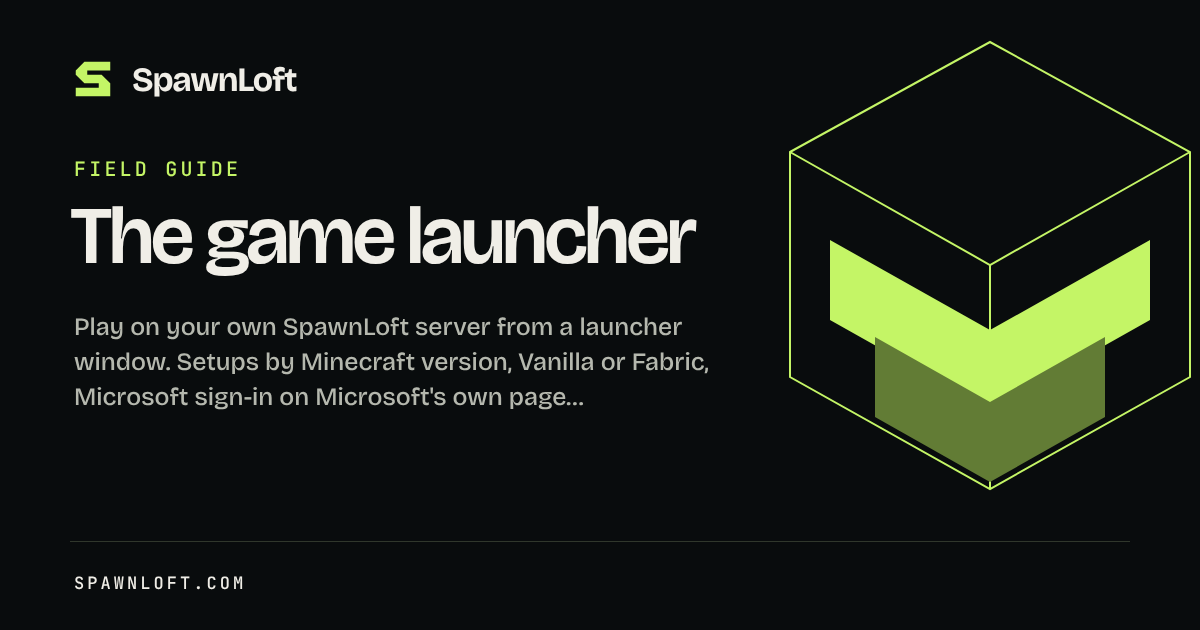
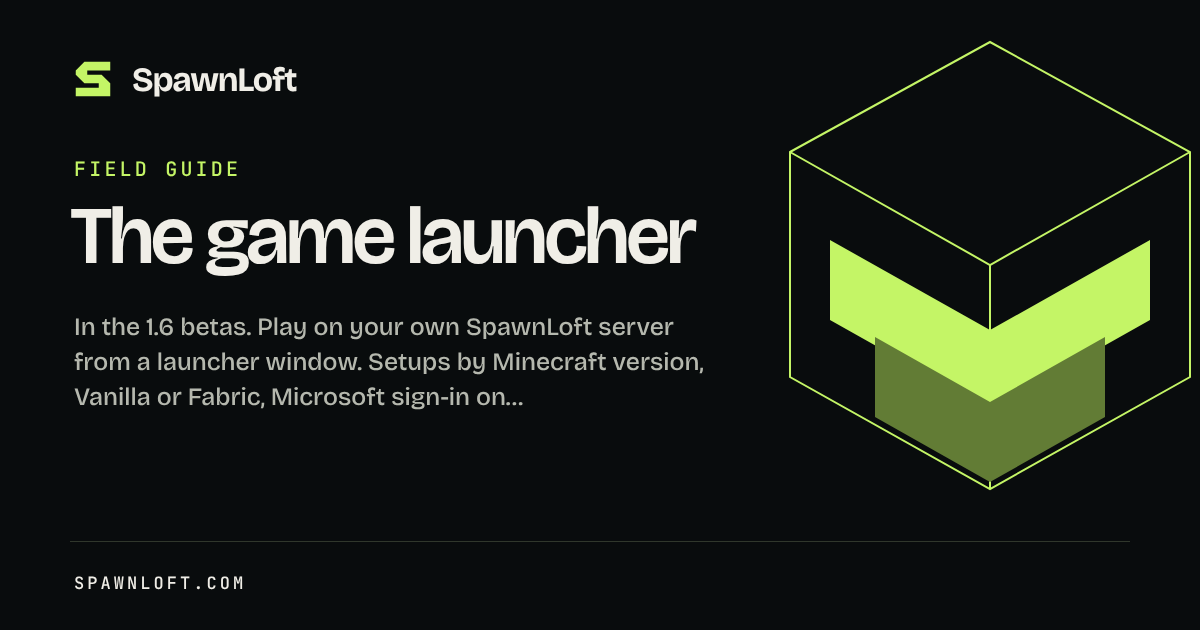
Address review: focus handling, launcher caveats, heading levels
- DemoPlayer moves focus to the video when the poster is activated, and the
  play pill is drawn in ink so the primary button stays the only lime fill
- Product and roadmap jump links move focus to the section they scroll to
- Launcher section and docs page say which platforms the client runs on,
  that Java comes from Mojang for the game client only, and that sign-in in
  the packaged desktop app is still being verified (with the CLI fallback)
- Release notes render their headings one level down, under each release's
  own heading; a hash change after load opens the linked release
- Blog list titles use the h2 role directly; product and launcher cards redrawn

Changed region(s): [[0.0617, 0.4825, 0.5858, 0.6635]]

diff --git a/.vitepress/theme/pages/ProductPage.vue b/.vitepress/theme/pages/ProductPage.vue
@@ -57,7 +57,8 @@ const integrations = [
 ]
 const launcher = [
   'Setups by Minecraft version, Vanilla or Fabric, with the memory you choose',
-  'Any version in Mojang’s list, with the Java it needs fetched when none on the machine fits',
+  'Any version in Mojang’s list; the game client gets Mojang’s own Java when none on the machine fits',
+  'Windows x64, Apple Silicon and Linux x64; Linux arm64 cannot run the client',
   'Microsoft sign-in on Microsoft’s own page, or an offline name for a test server',
   'Press Play on a stopped server and it is started first, then joined',
 ]
@@ -66,6 +67,17 @@ const platforms = [
   { name: 'macOS', detail: '13 or later · Apple Silicon', points: ['Signed, notarized and stapled', 'Managed MySQL needs macOS 15 or later', 'Schedules via launchd', 'Intel Macs stay on 1.4'] },
   { name: 'Linux', detail: '.deb and .rpm · x64 or arm64', points: ['Hash-verified packages', 'Managed MySQL on x64 only', 'A command-line-only build for servers'] },
 ]
+
+// A jump link scrolls to its section and moves focus there, so a keyboard user lands where the
+// page went instead of tabbing on from the top.
+function jumpTo(href: string) {
+  const target = document.getElementById(href.slice(1))
+  if (!target) return
+  history.replaceState(null, '', href)
+  target.setAttribute('tabindex', '-1')
+  target.scrollIntoView({ block: 'start' })
+  target.focus({ preventScroll: true })
+}
 </script>
 
 <template>
@@ -84,7 +96,7 @@ const platforms = [
         </div>
         <nav class="jump" aria-label="On this page">
           <Eyebrow>On this page</Eyebrow>
-          <a v-for="[text, href] in jumps" :key="href" :href="href"><span>{{ text }}</span><BrandIcon name="arrow" :size="16" /></a>
+          <a v-for="[text, href] in jumps" :key="href" :href="href" @click.prevent="jumpTo(href)"><span>{{ text }}</span><BrandIcon name="arrow" :size="16" /></a>
         </nav>
       </div>
     </section>
@@ -146,7 +158,7 @@ const platforms = [
           <h2 class="h2">Press Play on your own server.</h2>
           <p class="body">A window for the real Minecraft client, already pointed at one of your SpawnLoft servers. It is a developer's tool that goes with the app: make a setup, press Play, test the plugin you are writing as a player. Nothing is drawn or patched by SpawnLoft; it downloads the client Mojang ships and runs it.</p>
           <ul class="ticks"><li v-for="point in launcher" :key="point">{{ point }}</li></ul>
-          <p class="body">It is not a mods launcher, a news feed or a store, and it has no account system of its own. It ships in the 1.6 betas; 1.5 does not have it.</p>
+          <p class="body">It is not a mods launcher, a news feed or a store, and it has no account system of its own. It ships in the 1.6 betas; 1.5 does not have it, and the sign-in inside the packaged desktop app is still being verified.</p>
           <div class="links"><ArrowLink href="/guide/launcher">How the launcher works</ArrowLink><ArrowLink href="/guide/beta#automatic-updates-and-beta-builds">Get the beta builds</ArrowLink></div>
         </div>
         <div class="sketch-col" v-reveal>
@@ -201,6 +213,7 @@ const platforms = [
 .words { display: grid; gap: var(--s5); align-content: start; }
 .cta-row { display: flex; flex-wrap: wrap; gap: var(--s3) var(--s4); align-items: center; }
 .aside { max-width: 24em; font-size: var(--t-body); }
+section:focus { outline: 0; }
 .jump { display: grid; align-content: start; padding-top: var(--s2); }
 .jump .eyebrow { margin-bottom: var(--s3); }
 .jump a { display: flex; justify-content: space-between; align-items: center; gap: var(--s4); padding: var(--s3) 0; border-top: 1px solid var(--line); font: 500 var(--t-ui)/1.3 var(--display); color: var(--fg-2); }
@@ -233,8 +246,8 @@ const platforms = [
 .sk { display: grid; gap: var(--s6); padding: var(--s5); background: var(--bg); }
 .sk-top { display: flex; justify-content: space-between; align-items: center; }
 .sk-brand { color: var(--accent); display: inline-flex; }
-.sk-chip { display: inline-flex; align-items: center; gap: var(--s2); padding: 4px 10px 4px 6px; border: 1px solid var(--line-strong); border-radius: 999px; font: 500 var(--t-caption)/1.4 var(--mono); color: var(--fg-2); }
-.sk-chip i { width: 16px; height: 16px; border-radius: 3px; background: var(--bg-3); }
+.sk-chip { display: inline-flex; align-items: center; gap: var(--s2); padding: var(--s1) var(--s3) var(--s1) var(--s2); border: 1px solid var(--line-strong); border-radius: 999px; font: 500 var(--t-caption)/1.4 var(--mono); color: var(--fg-2); }
+.sk-chip i { width: 16px; height: 16px; border-radius: var(--r1); background: var(--bg-3); }
 .sk-main { display: grid; gap: var(--s4); justify-items: start; }
 .sk-play { display: inline-flex; border-radius: var(--r1); overflow: hidden; }
 .sk-play-big { display: inline-flex; align-items: center; gap: var(--s3); min-height: 52px; padding: 0 var(--s6) 0 var(--s5); background: var(--accent); color: var(--accent-fg); font: 600 var(--t-lede)/1 var(--display); }

diff --git a/.vitepress/theme/components/DemoPlayer.vue b/.vitepress/theme/components/DemoPlayer.vue
@@ -12,6 +12,7 @@ const chapters = demo.captions
 const started = ref(false), step = ref(0)
 const video = ref<HTMLVideoElement>()
 const length = `${Math.floor(demo.duration / 60)}:${String(Math.round(demo.duration % 60)).padStart(2, '0')}`
+const pad = (n: number) => String(n).padStart(2, '0')
 
 async function start(at = 0) {
   started.value = true
@@ -19,6 +20,8 @@ async function start(at = 0) {
   const el = video.value
   if (!el) return
   if (at) el.currentTime = at + 0.05
+  // The poster button is gone, so focus moves to the video rather than falling to <body>.
+  el.focus({ preventScroll: true })
   el.play().catch(() => {})
 }
 function seek(chapter: { n: number; start: number }) {
@@ -39,7 +42,7 @@ function tick() {
 <template>
   <div class="demo">
     <div class="stage">
-      <video v-if="started" ref="video" controls muted playsinline preload="auto" poster="/demo/poster.webp" :width="demo.w" :height="demo.h"
+      <video v-if="started" ref="video" tabindex="0" controls muted playsinline preload="auto" poster="/demo/poster.webp" :width="demo.w" :height="demo.h"
         aria-label="A recording of SpawnLoft: creating a server, starting it, installing the WorldEdit plugin and taking a backup."
         @timeupdate="tick" @ended="step = 0">
         <source src="/demo/demo.webm" type="video/webm">
@@ -53,7 +56,7 @@ function tick() {
     </div>
     <ol class="chapters" aria-label="Chapters">
       <li v-for="chapter in chapters" :key="chapter.n">
-        <button type="button" :aria-current="step === chapter.n ? 'step' : undefined" @click="seek(chapter)"><span class="n mono">0{{ chapter.n }}</span>{{ chapter.text }}</button>
+        <button type="button" :aria-current="step === chapter.n ? 'step' : undefined" @click="seek(chapter)"><span class="n mono">{{ pad(chapter.n) }}</span>{{ chapter.text }}</button>
       </li>
     </ol>
   </div>
@@ -66,9 +69,11 @@ function tick() {
 .poster { position: relative; display: block; width: 100%; padding: 0; border: 0; background: none; cursor: pointer; }
 .poster img { transition: opacity var(--d2) var(--ease); }
 .poster:hover img { opacity: .85; }
-.play { position: absolute; left: 50%; top: 50%; transform: translate(-50%, -50%); display: inline-flex; align-items: center; gap: var(--s3); padding: var(--s3) var(--s5) var(--s3) var(--s4); border-radius: 999px; background: var(--accent); color: var(--accent-fg); font: 600 var(--t-ui)/1 var(--text); white-space: nowrap; transition: background var(--d1) var(--ease); }
-.poster:hover .play { background: var(--accent-hover); }
-.play small { font-size: var(--t-caption); font-weight: 500; opacity: .75; }
+/* Not a lime fill: Button is the only one on a view. An ink pill with a lime icon, as the panel's own chips. */
+.play { position: absolute; left: 50%; top: 50%; transform: translate(-50%, -50%); display: inline-flex; align-items: center; gap: var(--s3); padding: var(--s3) var(--s5) var(--s3) var(--s4); border: 1px solid var(--line-strong); border-radius: 999px; background: var(--bg); color: var(--fg); font: 600 var(--t-ui)/1 var(--text); white-space: nowrap; transition: border-color var(--d1) var(--ease); }
+.play :deep(svg) { color: var(--accent); }
+.poster:hover .play { border-color: var(--fg); }
+.play small { font-size: var(--t-caption); font-weight: 500; color: var(--fg-3); }
 .poster:focus-visible { outline: 2px solid var(--accent-text); outline-offset: 4px; }
 .chapters { list-style: none; margin: 0; padding: 0; display: grid; grid-template-columns: repeat(4, minmax(0, 1fr)); gap: 0 var(--s5); }
 .chapters li { border-top: 1px solid var(--line); }

diff --git a/.vitepress/theme/pages/RoadmapPage.vue b/.vitepress/theme/pages/RoadmapPage.vue
@@ -32,6 +32,17 @@ const reach = [
   { title: 'Linux, in more shapes.', text: 'A .deb and an .rpm for x64 and arm64 ship today, and a command-line package for servers with no screen. An AppImage is still to come; it needs its own answers to libfuse2, Ubuntu’s AppArmor sandbox, and a path that changes every launch.', link: ['Platform support', '/guide/beta'] },
   { title: 'More languages.', text: 'Localisation is a future direction. Language support and timing have not been announced.' },
 ]
+
+// A jump link scrolls to its section and moves focus there, so a keyboard user lands where the
+// page went instead of tabbing on from the top.
+function jumpTo(href: string) {
+  const target = document.getElementById(href.slice(1))
+  if (!target) return
+  history.replaceState(null, '', href)
+  target.setAttribute('tabindex', '-1')
+  target.scrollIntoView({ block: 'start' })
+  target.focus({ preventScroll: true })
+}
 </script>
 
 <template>
@@ -41,7 +52,7 @@ const reach = [
         <SectionHead level="h1" eyebrow="Roadmap" title="A bigger world. The same purpose." lede="Better tools for the server on your own PC, built around the people who make it theirs. What has shipped, what is next, and what is deliberately not on the list.">
           <template #aside><ArrowLink :href="ROADMAP_URL" external>The living roadmap</ArrowLink></template>
         </SectionHead>
-        <nav class="jumps" aria-label="Roadmap sections"><a v-for="[text, href] in jumps" :key="href" :href="href">{{ text }}</a></nav>
+        <nav class="jumps" aria-label="Roadmap sections"><a v-for="[text, href] in jumps" :key="href" :href="href" @click.prevent="jumpTo(href)">{{ text }}</a></nav>
       </div>
     </section>
 
@@ -111,6 +122,7 @@ const reach = [
 
 <style scoped>
 .top { padding-top: var(--s8); padding-bottom: var(--s7); }
+section:focus { outline: 0; }
 .jumps { display: flex; flex-wrap: wrap; gap: var(--s2) var(--s6); margin-top: var(--s5); }
 .jumps a { font: 500 var(--t-ui)/1.3 var(--display); color: var(--fg-2); padding: var(--s2) 0; }
 .jumps a:hover { color: var(--accent-text); }

diff --git a/.vitepress/theme/pages/BlogPage.vue b/.vitepress/theme/pages/BlogPage.vue
@@ -19,7 +19,7 @@ import { formatDate } from '../posts'
           <article v-for="post in posts" :key="post.url" class="post">
             <p class="meta small mono"><time :datetime="post.date">{{ formatDate(post.date) }}</time><span>{{ post.minutes }} min read</span></p>
             <div class="post-words">
-              <h2 class="h3"><a :href="post.url">{{ post.title }}</a></h2>
+              <h2 class="h2"><a :href="post.url">{{ post.title }}</a></h2>
               <p class="body">{{ post.description }}</p>
               <ul v-if="post.tags.length" class="tags" aria-label="Topics"><li v-for="tag in post.tags" :key="tag"><Pill>{{ tag }}</Pill></li></ul>
             </div>
@@ -37,7 +37,6 @@ import { formatDate } from '../posts'
 .post { display: grid; grid-template-columns: 220px minmax(0, 1fr); gap: var(--s6); padding: var(--s6) 0; border-bottom: 1px solid var(--line); }
 .meta { display: grid; gap: var(--s1); padding-top: 6px; }
 .post-words { display: grid; gap: var(--s3); justify-items: start; min-width: 0; }
-.post-words .h3 { font-size: var(--t-h2); line-height: 1.1; letter-spacing: -.03em; }
 .post-words h2 a:hover { text-decoration: underline; text-underline-offset: 6px; text-decoration-color: var(--accent); }
 .tags { list-style: none; margin: var(--s1) 0 0; padding: 0; display: flex; flex-wrap: wrap; gap: var(--s2); }
 @media (max-width: 760px) { .post { grid-template-columns: minmax(0, 1fr); gap: var(--s3); } .meta { display: flex; gap: var(--s4); padding: 0; } }

diff --git a/.vitepress/theme/pages/ChangelogPage.vue b/.vitepress/theme/pages/ChangelogPage.vue
@@ -43,6 +43,11 @@ const safeUrl = (href: string) => {
 }
 // Release Markdown is external content. Keep its formatting without executing embedded HTML.
 const renderer = new Renderer()
+// Release notes start their headings at h2 on GitHub; here they sit under a release's own h2.
+renderer.heading = function ({ tokens, depth }) {
+  const level = Math.min(6, depth + 1)
+  return `<h${level}>${this.parser.parseInline(tokens)}</h${level}>\n`
+}
 renderer.html = ({ text }) => escape(text.replace(/<!--[\s\S]*?-->/g, ''))
 renderer.link = function ({ href, tokens }) {
   const label = this.parser.parseInline(tokens)
@@ -100,8 +105,9 @@ async function showMore() {
   await nextTick()
   if (firstNew) document.getElementById(firstNew)?.querySelector('summary')?.focus({ preventScroll: true })
 }
-onMounted(load)
-onBeforeUnmount(() => request?.abort())
+const onHash = () => { if (state.value === 'ok') void openLinked() }
+onMounted(() => { window.addEventListener('hashchange', onHash); void load() })
+onBeforeUnmount(() => { window.removeEventListener('hashchange', onHash); request?.abort() })
 </script>
 
 <template>

diff --git a/guide/launcher.md b/guide/launcher.md
@@ -1,6 +1,6 @@
 ---
 title: The game launcher
-description: Play on your own SpawnLoft server from a launcher window. Setups by Minecraft version, Vanilla or Fabric, Microsoft sign-in on Microsoft's own page, and a Play button that starts the server first when it has to. In the 1.6 betas.
+description: In the 1.6 betas. Play on your own SpawnLoft server from a launcher window. Setups by Minecraft version, Vanilla or Fabric, Microsoft sign-in on Microsoft's own page, and a Play button that starts the server first when it has to. In the 1.6 betas.
 ---
 
 # The game launcher
@@ -13,7 +13,10 @@ to stand in the world you are hosting, or to test the plugin you are writing as 
 ::: warning In the 1.6 betas
 The launcher ships in the 1.6 beta builds; SpawnLoft 1.5 does not have it. To follow the betas, turn on
 **Settings → Updates → Get beta builds**; see [automatic updates and beta builds](/guide/beta#automatic-updates-and-beta-builds).
-Betas are what they sound like, so keep a backup of anything you care about.
+Betas are what they sound like, so keep a backup of anything you care about. Two things are still
+being verified as this is written: signing in from the packaged Windows app, and the Window menu entry
+on macOS. If the sign-in page never comes back, run `spawnloft client login` in a terminal and the
+launcher picks the account up.
 :::
 
 Nothing is drawn or patched by SpawnLoft. It downloads the client from Mojang's own servers, the way
@@ -66,8 +69,8 @@ existing one) has:
   not install them for you.
 - **Memory.** 2, 4 or 8 GB, or a custom amount with a slider that shows how much the machine has free.
 - **Name**, who it plays as, and the server it usually joins.
-- **Let SpawnLoft see the game**, which adds the harness mod so an [AI assistant](/guide/ai-assistants)
-  can join, chat, take a screenshot and read the game's log as a real player.
+- **Let SpawnLoft see the game**, which adds the harness mod (and Fabric API) so an [AI assistant](/guide/ai-assistants)
+  can send a command, read what came back and take a screenshot, as a real player would.
 - Under **Advanced**, the Java path and the Fabric loader version.
 
 The version, loader, Java, memory and harness cannot be changed while that setup's game is running.
@@ -103,7 +106,8 @@ work on the same list.
 
 ## While the game runs
 
-The button turns into **Stop**, with **Open folder** beside it. If the game closes within a minute of
+The button turns into **Stop**, with **Open folder** beside it in the desktop app (a browser tab shows
+the folder's path instead). If the game closes within a minute of
 starting without a Stop from you, a notice says so, shows the last lines of the game log, and offers
 **Report a problem**, which writes the same diagnostics bundle as `spawnloft diag --client`. When Play
 cannot work, it is greyed with the reason where the line under it was, and a link that fixes it: a
